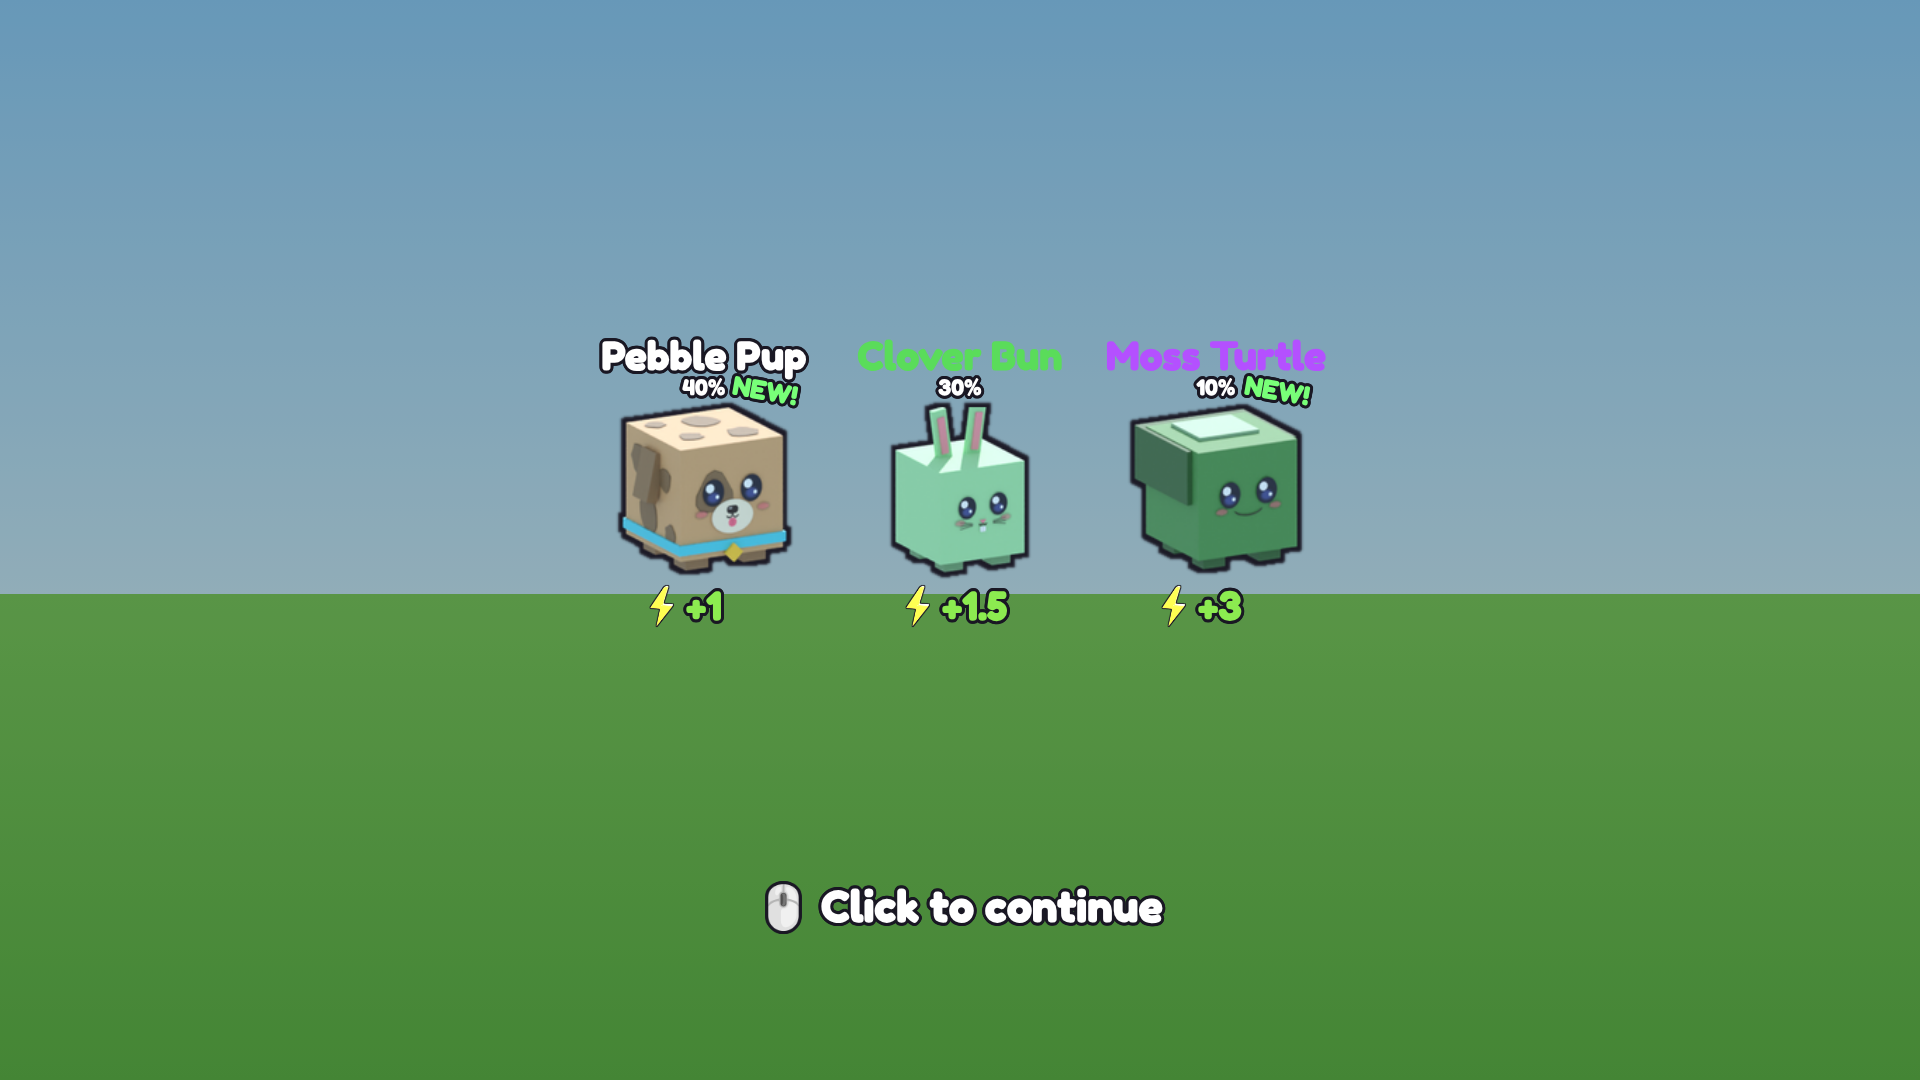
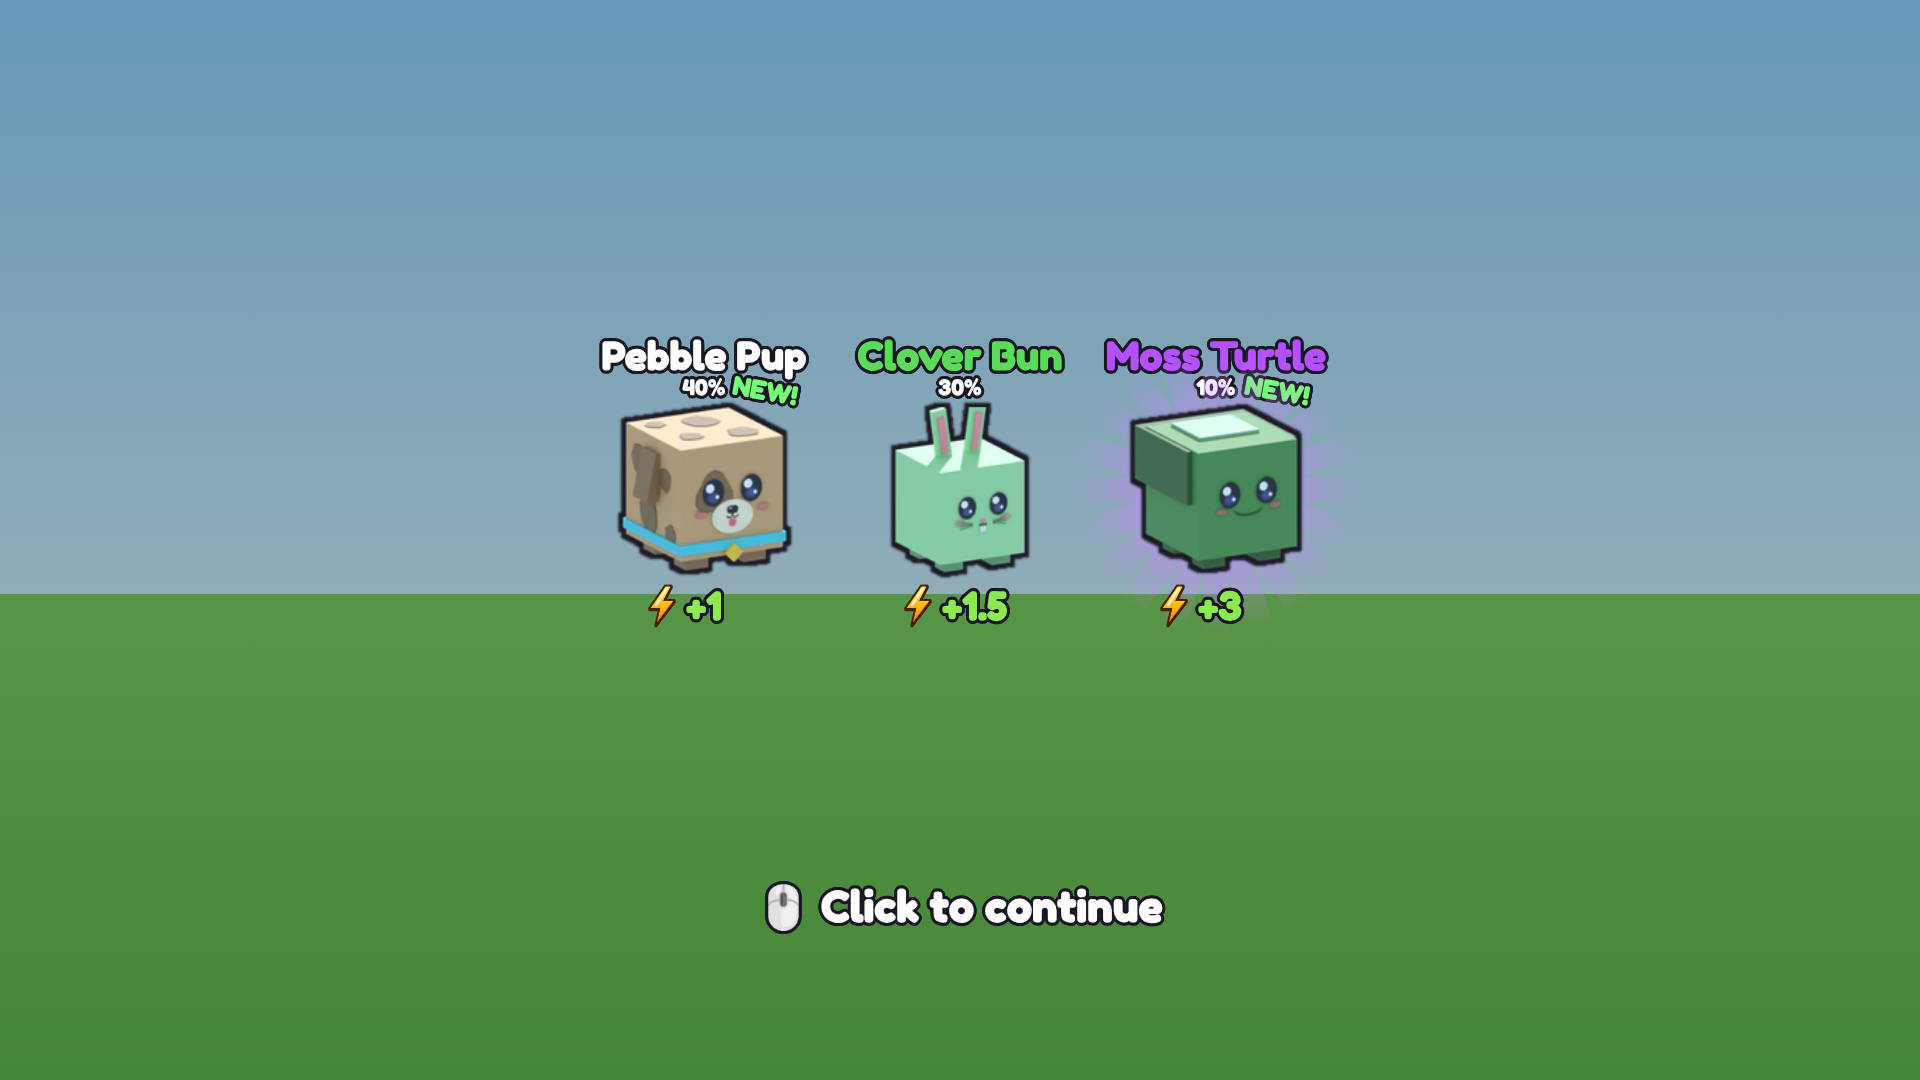
UI polish: toasts, timers, daily checks, gifts panel, hatch rays; docs
- Toasts are outlined text (reference), at the top while a menu is open
- Potion timers as dark pills clear of the tile grid
- Daily claimed days show a big check; Gifts in an inset panel with tiles
- Rarity rays behind Rare+ hatch reveals
- Devlog, Phase 5 roadmap/playtest, Decisions, Architecture, previews

Claude-Session: https://claude.ai/code/session_013wEtvuzuJqfzL3NzfK9Z6Q

diff --git a/docs/Tech/Architecture.md b/docs/Tech/Architecture.md
@@ -38,7 +38,8 @@ Rojo maps:
   - `LeaderboardService` – time played, OrderedDataStore writes/reads, fills the hub boards.
   - `AnalyticsTracker` – onboarding funnel (`Config/Funnel`) + Wins sink events.
   - `EventService` – active seasonal event, event currency, event egg stand + props.
-  - `SettingsService` – `SetSetting`: saves the player's on/off settings (`Config/Settings`).
+  - `SettingsService` – `SetSetting`: saves the player's settings (`Config/Settings`: toggles and 0–100 sliders).
+  - `TitleService` – unlocks titles (`Config/Titles`) as milestones are reached, `EquipTitle`, name tag above the head; the boost is in `Stats`.
   - `DevService/` – `init` (chat plumbing, permissions) · `Commands` (Studio-only test commands, see [[Testing Guide]]).
 
 ## Shared (`src/shared`)
@@ -55,10 +56,12 @@ Rojo maps:
 - `Sfx` – plays named sounds from `Config/Sounds` (silent until ids are filled in).
 - `Effects/` – `World` (splashes, landing burst, sparkles), `Screen` (confetti, flashes), `Ultimate/` (`init` aura + beam, `CutIn`).
 - `PondAccess` – which ponds this player can use (signs, HOP button, auto-train).
-- `UI/Components/` – reusable pieces: `Gradient` (presets), `RobuxChip`, `Badge`, `IconTile`, `PassCard`, `Icon` (icon sheet or emoji), `Studs` (panel texture), `CountUp` (rolling numbers), `ModelView` (ViewportFrame), `PetImage` (pet/frog picture or 3D), `RewardIcon`.
+- `UI/Components/` – reusable pieces: `Gradient` (presets), `RobuxChip`, `Badge`, `IconTile`, `PassCard`, `Icon` (icon sheet or emoji), `Studs` (panel texture), `CountUp` (rolling numbers), `ModelView` (ViewportFrame), `PetImage` (pet/frog picture or 3D), `RewardIcon`, `Rays` (spinning sunburst), `Slider` (0–100 with studded knob).
 - `UI/Hud/` – `init` (layout + HOP button) · `StatRow` · `MultiplierInfo` · `LevelBar` · `PackRow` · `BottomLeft` · `IconGrid` · `PassColumn` · `TopBar` (Auto Hop) · `DistanceMeter` · `PotionTimers` · `TopRight` (Daily button) · `QuestBar` · `TipTicker` · `EventBanner` · `AutoRebirth` · `AutoTrain` · `Popups`
 - `UI/HatchScreen` – full-screen hatch sequence (blur, eggs, wobble, reveal cards).
-- `UI/Menus/` – `init` (open/close by name) · `Window` (panel, list, grid, card, button) · `Shop/` (`PackSection`, `PassSection`, `HopsSection`, `GiftSection`, `CodesSection`) · `RebirthMenu` · `TrailsMenu` · `DailyMenu` · `GiftsMenu` · `Inventory/` (`FrogsTab`, `PetsTab/` (`PetCard`, `Toolbar`), `BoostsTab`) · `ComingSoonMenu`
+- `UI/Menus/` – `init` (open/close by name; `show` never toggles) · `Window/` (`init`: window chrome on its own ScreenGui, pop in/out, `setTitle`; `Layout`: list, grid, card, inset panel, studded `button`/`priceButton`, `recolor`) · `Shop/` (`PackSection`, `PassSection`, `HopsSection`, `GiftPicker`, `CodesSection`) · `RebirthMenu` · `TrailsMenu` · `DailyMenu` · `GiftsMenu` · `SettingsMenu` · `WorldsMenu/` (`Scene`) · `Inventory/` (side tabs; `FrogsTab`, `PetsTab/` (`PetTile`, `Details`, `Toolbar`, `Index`), `BoostsTab`, `TitlesTab`)
+- `UI/Hud/Visibility` – show/hide HUD parts without fighting the menu (the centre HUD hides while a window is open).
+- Menus re-render only when what they show changes: `Shared/Util/Signature` (`of` / `guard`).
 - `Controllers/`
   - `HopController` – spot detection (pond pad / Hop Zone), server call, auto-train and Auto Hop
   - `HopAnimation` – frog hop visuals, splashes, camera, landing banner

diff --git a/docs/Testing/Phase 5 Playtest.md b/docs/Testing/Phase 5 Playtest.md
@@ -20,16 +20,22 @@ status: ready
 - [ ] Buttons and tiles grow a little on hover and squish on click
 - [ ] Clicking "x… Multiplier" opens the breakdown above it (sized to its lines)
 - [ ] On a pond: AUTO REBIRTH button with icon and "ONLY ⏣ 99" (or ON/OFF if owned)
-- [ ] Toasts are rounded coloured pills; the landing banner appears mid-screen, not over the distance meter
+- [ ] Toasts are coloured outlined text (no pill) under the quest bar, or at the very top while a menu is open; the landing banner appears mid-screen
 
 ## Menus
-- [ ] Every menu: world is blurred behind it, translucent panel, big 3D icon top-left, red X top-right; the tip ticker hides while it's open
+- [ ] Every menu pops in (and shrinks away on close), world blurred behind it, big icon top-left, red X top-right; Auto Hop, quest bar, tips and the bottom bar hide while it's open and come back after
 - [ ] Rebirth window is short (no empty space); bolt cards, studded progress bar
 - [ ] Daily Rewards: orange DAY tabs, reward pictures, CLAIMED overlays on past days, today outlined green, rainbow Day 7 "Limited!"
-- [ ] Shop: Starter Pack icon + content tiles with icons; pass rows with icons
+- [ ] Shop: Starter Pack; gamepasses as coloured cards in 2 columns with a gift button (giftable ones) and price/OWNED; Hops packs 2×2; the gift button opens a player list (test with 2 players)
+- [ ] Inventory: big tabs left of the window; title changes to My Frogs / My Pets / My Trails / My Boosts / My Titles
+- [ ] My Pets: click a tile → left panel shows it on spinning rays with EQUIP/UNEQUIP, lock, delete; trash "Auto" opens the rarity toggles; Delete asks "Sure?"; sort icon cycles; INDEX swaps the grid
+- [ ] My Boosts: click a potion → white card shows it; USE uses one; timer shows on the tile while active
+- [ ] My Titles: "N / 27 Titles"; first throw unlocks Tadpole (toast + appears unlocked); clicking it shows it above your head for everyone; the boost shows in the multiplier breakdown
+- [ ] Worlds (globe, top right): World 1 says YOU ARE HERE; locked worlds say NEEDS … HOPS and LOCKED; with enough Hops it says UNLOCK and teleports
 
 ## Settings & pets
-- [ ] Gear button (top right) opens Settings; each toggle flips ON/OFF and stays after rejoining
+- [ ] Gear button (top right) opens Settings; volume sliders drag smoothly and save on release; each toggle flips ON/OFF; everything stays after rejoining
+- [ ] Camera Shake OFF: no shake on landings / ultimate hop; ON: a small thump per landing, a big one on the ultimate
 - [ ] Sound effects OFF: no UI/game sounds; Big effects OFF: no droplets/confetti (ripples stay); other players' pets OFF: their pets vanish for you only (test with 2 players)
 - [ ] My Pets: Sort cycles Best → Rarity → Name (equipped stay first); INDEX shows every pet, unhatched as black silhouettes with ???
 

diff --git a/docs/Decisions.md b/docs/Decisions.md
@@ -17,7 +17,11 @@ Things I need from you, or choices I made for now that you can change. Newest fi
 | Topic | What I picked | Why / alternatives |
 |---|---|---|
 | UI fonts | Fredoka One everywhere (Roblox `FredokaOne`) | Closest to the reference look; could use Gotham Black for numbers |
-| UI images | 1 icon sheet + 1 stud texture, emoji until uploaded | Fewest uploads; icons are 3D renders from Blender |
+| UI images | 1 icon sheet + 1 stud texture, emoji until uploaded | Fewest uploads |
+| Icons | Hand-drawn vector icons (SVG) in the reference style | You asked for custom vectors; the old Blender 3D icons can come back with `build_icons.py` |
+| Titles | 27 milestone titles (throws, distance, eggs, playtime, frogs, pets, rebirths, level, Wins), +0.5…+15 Hops or x1.05…x2 Wins, shown above the head | Names/numbers in `Config/Titles.luau` – rename or retune freely |
+| Worlds menu pictures | Painted in code from each world's colours | Send me Studio screenshots of each hub (or upload them) and the cards can show real pictures like the reference |
+| Settings | Volume sliders for sound/music; Camera Shake, Effects, Other pets toggles; no "Hide HUD" yet | Hide HUD needs a way back (key/button) – say if you want it |
 | HUD layout | Follows the Stone Skipping HUD (grid left, passes right, level bar bottom) | — |
 | Pets | Part-built cube pets with decal faces | Blender pets later for comparison (you asked to try parts first) |
 | Frogs | Cube frogs built like the pets (eyes on top, frog face), extras: crowns for Kings, Ninja headband, Golden shiny, Phoenix wings, Mushroom cap, Astro helmet | Matches the cube style; the round part frog is gone |
@@ -26,4 +30,4 @@ Things I need from you, or choices I made for now that you can change. Newest fi
 | World gates | 1M / 50M / 2.5B / 100B Hops | Tune after the Phase 7 playtest |
 | Max players | 12 | More = more Friend Boost and busier boards |
 | Performance | No StreamingEnabled yet (forced off in default.project.json; sign/podium controllers WaitForChild on far worlds) | Decide after the Phase 8 playtest numbers |
-| Sounds | Hooks everywhere (click, hover, claim, hop, splash, hatch, level up, purchase), all silent | Pick sounds from the Creator Store (or let me suggest ids) → `Config/Sounds.luau` |
+| Sounds | Hooks everywhere (click, hover, open, tab, error, claim, hop, splash, hatch, level up, purchase, music), all silent | Pick sounds from the Creator Store (or let me suggest ids) → `Config/Sounds.luau` |

diff --git a/docs/Roadmap/Phase 5 - Interface.md b/docs/Roadmap/Phase 5 - Interface.md
@@ -10,7 +10,7 @@ tags: [planning, phase5]
 
 ## 5.1 Design system 🟡
 - [x] Fonts/tokens: Fredoka One, near-black 3px outlines, dark glassy tiles, silver/colour gradients
-- [x] 27 glossy 3D icons rendered in Blender (`tools/blender/build_icons.py`) packed into **one sheet** (`assets/textures/ui/icons.png`, layout `Config/IconAtlas`) — emoji until uploaded
+- [x] 35 custom **vector** icons in the reference style (`tools/textures/vector_icons.py`, SVGs in `assets/vectors/icons/`) packed into **one sheet** (`assets/textures/ui/icons.png`, layout `Config/IconAtlas`) — emoji until uploaded ![[Icons Sheet.png]]
 - [x] Stud texture (`assets/textures/ui/studs.png`) on bars, packs, passes, buttons
 - [x] Components: `Icon` (sheet icon or emoji), `Studs`, restyled `IconTile`, `PassCard`
 - [ ] Upload the 2 images ([[Decisions]])
@@ -27,7 +27,12 @@ tags: [planning, phase5]
 - [x] Frogs rebuilt as cube frogs (pet builder) with per-frog extras; pet/frog picture sheets (`pets.png`, `frogs.png`)
 - [x] My Pets: Sort (Best / Rarity / Name) and INDEX view (hatched pets shown, the rest as silhouettes) — ![[Pet Index Preview.png]]
 - [x] Settings menu (gear by Daily): sound effects, music, other players' pets, big effects — saved with your data
-- [ ] My Pets details panel
+- [x] Windows above the HUD (centre HUD hides), pop in/out, Inventory side tabs with "My …" titles
+- [x] My Pets details panel + small tiles + toolbar icons — ![[Pets Menu Preview.png]]
+- [x] My Boosts info card, My Titles grid (new Titles system), Trails cards, Frogs tiles
+- [x] Settings sliders + ON/OFF + Camera Shake — ![[Settings Preview.png]]
+- [x] Worlds menu — ![[Worlds Preview.png]]
+- [x] Shop gamepass grid with gift buttons, Hops pack grid, gift picker — ![[Shop Preview.png]]
 
 ## 5.4 Reward & hatch animations 🟡
 - [x] Egg hatch reveal to the reference: floating pet picture, name, chance, tilted NEW!, bolt +bonus, lighter overlay — ![[Hatch Preview.png]]
@@ -40,7 +45,7 @@ tags: [planning, phase5]
 
 ## 5.6 Feedback & juice 🟡
 - [x] Hover grow + press squish on every button and tile, click/hover sound hooks (`Sfx`, ids in `Config/Sounds`), Hops/Wins count up
-- [x] Toast pills, landing banner mid-screen, Auto Rebirth with icon, multiplier breakdown panel
+- [x] Outlined text toasts at the top (reference), landing banner mid-screen, Auto Rebirth with icon, multiplier breakdown panel
 - [ ] Sound ids (Phase 6.4)
 
 ## 5.7 Mobile & console layouts

diff --git a/docs/Devlog/2026-10-12.md b/docs/Devlog/2026-10-12.md
@@ -47,3 +47,8 @@ tags: [devlog]
 - **6.3 ultimate hop:** cut-in with speed lines + frog silhouette, fire aura, sky beam + explosion for Shooting Star, Phoenix and the Kings (`Config/Frogs` `ultimate`). Preview renderer now supports tinted images.
 - **6.5 art pass:** per-world plaza colours + checker floor, themed lily pads, client lighting that fades to each world (dusk swamp, pink candy, night space, red lava). Architecture note updated for all new modules.
 - **Settings + pets:** Settings menu (sfx, music, others' pets, big effects; saved server-side via `SetSetting`) with a gear button; My Pets sort and Index view; music/speaker icons.
+- **Vector icons:** you asked for custom vectors like the reference, so all 35 icons are now hand-drawn SVGs (`tools/textures/vector_icons.py` → `assets/vectors/icons/`) with thick dark outlines, top-lit gradients and gloss, rendered by Chromium into the same `icons.png` sheet ([[Icons Sheet.png]]). New icons: check, info, trash, sort, title ribbon, boost star-potion.
+- **Review fixes:** menus no longer rebuild every snapshot (`Util/Signature`), button text sits in its own label (gradients/studs can't cover it), the held frog keeps its translucent parts, StreamingEnabled is off, plus small fixes (cut-in fade, count-up, daily auto-open, lights on hidden pets).
+- **Titles:** 27 milestone titles (`Config/Titles`) with a small Hops or Wins boost, equip one to show it above your head (`TitleService`, `EquipTitle`), "My Titles" tab with progress bars ([[Titles Preview.png]]).
+- **Menus redone to your newest screenshots:** windows sit above the HUD (centre HUD hides), pop in/out; Inventory has big side tabs and "My …" titles; My Pets has the details panel + small tiles ([[Pets Menu Preview.png]]); My Boosts has the white info card ([[Boosts Preview.png]]); Trails are coloured studded cards ([[Trails Preview.png]]); Settings has volume sliders + studded ON/OFF and a new Camera Shake option ([[Settings Preview.png]]); new **Worlds** menu (top-right button) with world cards and YOU ARE HERE / TELEPORT / LOCKED ([[Worlds Preview.png]]); Shop has a gamepass card grid with gift + price buttons, a Hops pack grid and a gift player picker ([[Shop Preview.png]]).
+- **Polish:** toasts are now plain outlined text at the top (like "Scallop Shell equipped."), potion timers are dark pills, Daily claimed days show a big check, Gifts sit in a dark panel, rarity rays spin behind Rare+ hatches and the selected pet.
